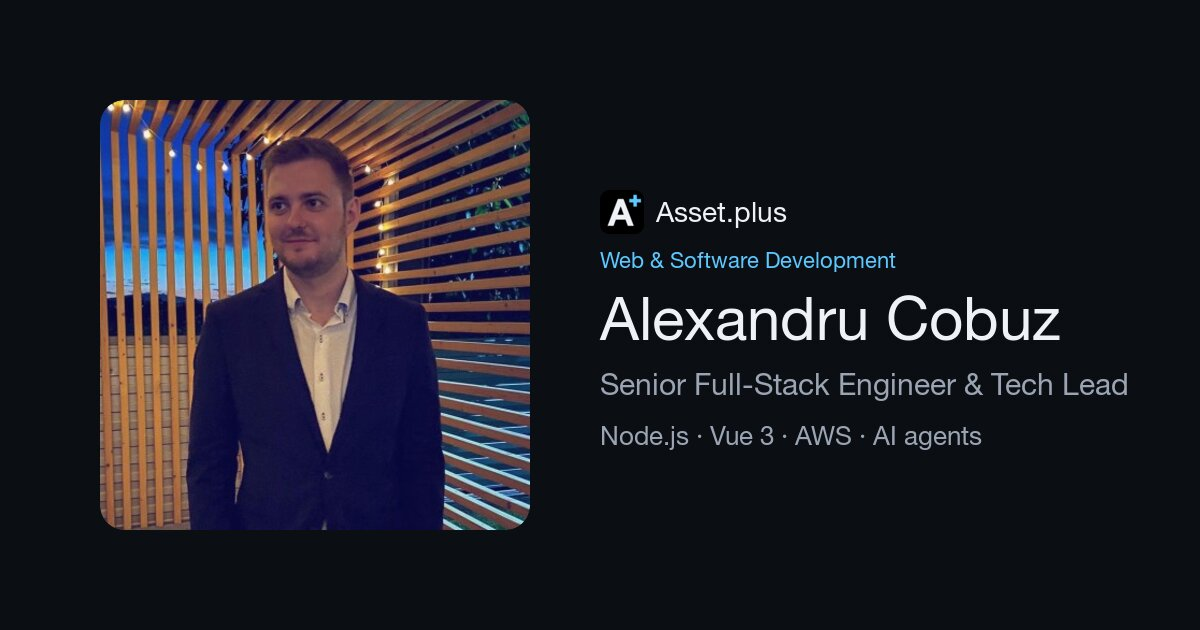
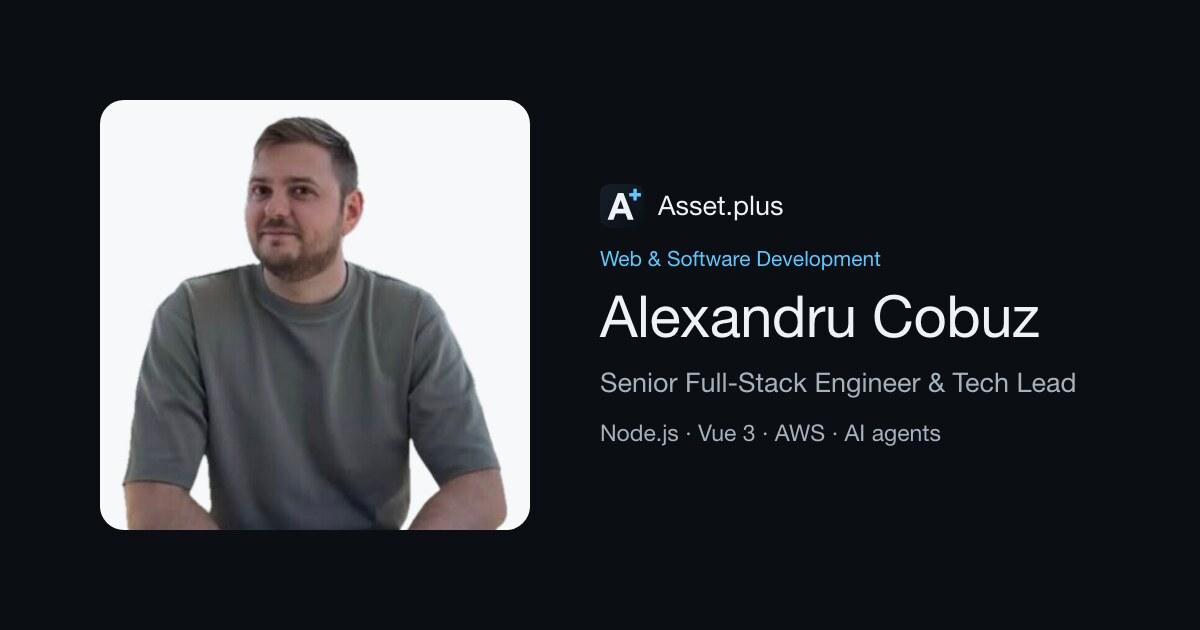
update jpg

diff --git a/index.html b/index.html
@@ -19,14 +19,14 @@
   <meta property="og:title" content="Alexandru Cobuz — Senior Full-Stack Engineer &amp; Tech Lead | Asset.plus">
   <meta property="og:site_name" content="Asset.plus">
   <meta property="og:description" content="15+ years building fast, secure, lean software: Node.js, Vue 3, AWS and AI agents. Freelance &amp; contract, remote (EU/CET).">
-  <meta property="og:image" content="https://asset.plus/assets/og.jpg">
+  <meta property="og:image" content="https://asset.plus/assets/og.jpg?v=2">
   <meta property="og:image:width" content="1200">
   <meta property="og:image:height" content="630">
   <meta name="twitter:card" content="summary_large_image">
   <meta name="twitter:site" content="@CobuzAlexandru">
   <meta name="twitter:title" content="Alexandru Cobuz — Senior Full-Stack Engineer &amp; Tech Lead | Asset.plus">
   <meta name="twitter:description" content="Senior full-stack engineer &amp; tech lead. Node.js, Vue 3, AWS and AI agents. Remote (EU/CET).">
-  <meta name="twitter:image" content="https://asset.plus/assets/og.jpg">
+  <meta name="twitter:image" content="https://asset.plus/assets/og.jpg?v=2">
 
   <link rel="preconnect" href="https://fonts.googleapis.com">
   <link rel="preconnect" href="https://fonts.gstatic.com" crossorigin>
@@ -119,7 +119,7 @@
       "name": "Asset.plus",
       "url": "https://asset.plus/",
       "logo": "https://asset.plus/assets/apple-touch-icon.png",
-      "image": "https://asset.plus/assets/og.jpg",
+      "image": "https://asset.plus/assets/og.jpg?v=2",
       "description": "Freelance & contract web and software engineering: full-stack web apps, MVPs and SaaS, AI agents and integrations, performance and architecture reviews.",
       "founder": {
         "@id": "https://asset.plus/#person"

diff --git a/guides/index.html b/guides/index.html
@@ -19,14 +19,14 @@
   <meta property="og:url" content="https://asset.plus/guides/">
   <meta property="og:title" content="Guides & case studies | Asset.plus">
   <meta property="og:description" content="Practical guides by Alexandru Cobuz on MCP servers, self-hosted LLMs, AWS Lambda cost, Bun vs Node.js, lean JavaScript and trading bot architecture.">
-  <meta property="og:image" content="https://asset.plus/assets/og.jpg">
+  <meta property="og:image" content="https://asset.plus/assets/og.jpg?v=2">
   <meta property="og:image:width" content="1200">
   <meta property="og:image:height" content="630">
   <meta name="twitter:card" content="summary_large_image">
   <meta name="twitter:site" content="@CobuzAlexandru">
   <meta name="twitter:title" content="Guides & case studies | Asset.plus">
   <meta name="twitter:description" content="Practical guides by Alexandru Cobuz on MCP servers, self-hosted LLMs, AWS Lambda cost, Bun vs Node.js, lean JavaScript and trading bot architecture.">
-  <meta name="twitter:image" content="https://asset.plus/assets/og.jpg">
+  <meta name="twitter:image" content="https://asset.plus/assets/og.jpg?v=2">
 
   <link rel="preconnect" href="https://fonts.googleapis.com">
   <link rel="preconnect" href="https://fonts.gstatic.com" crossorigin>
